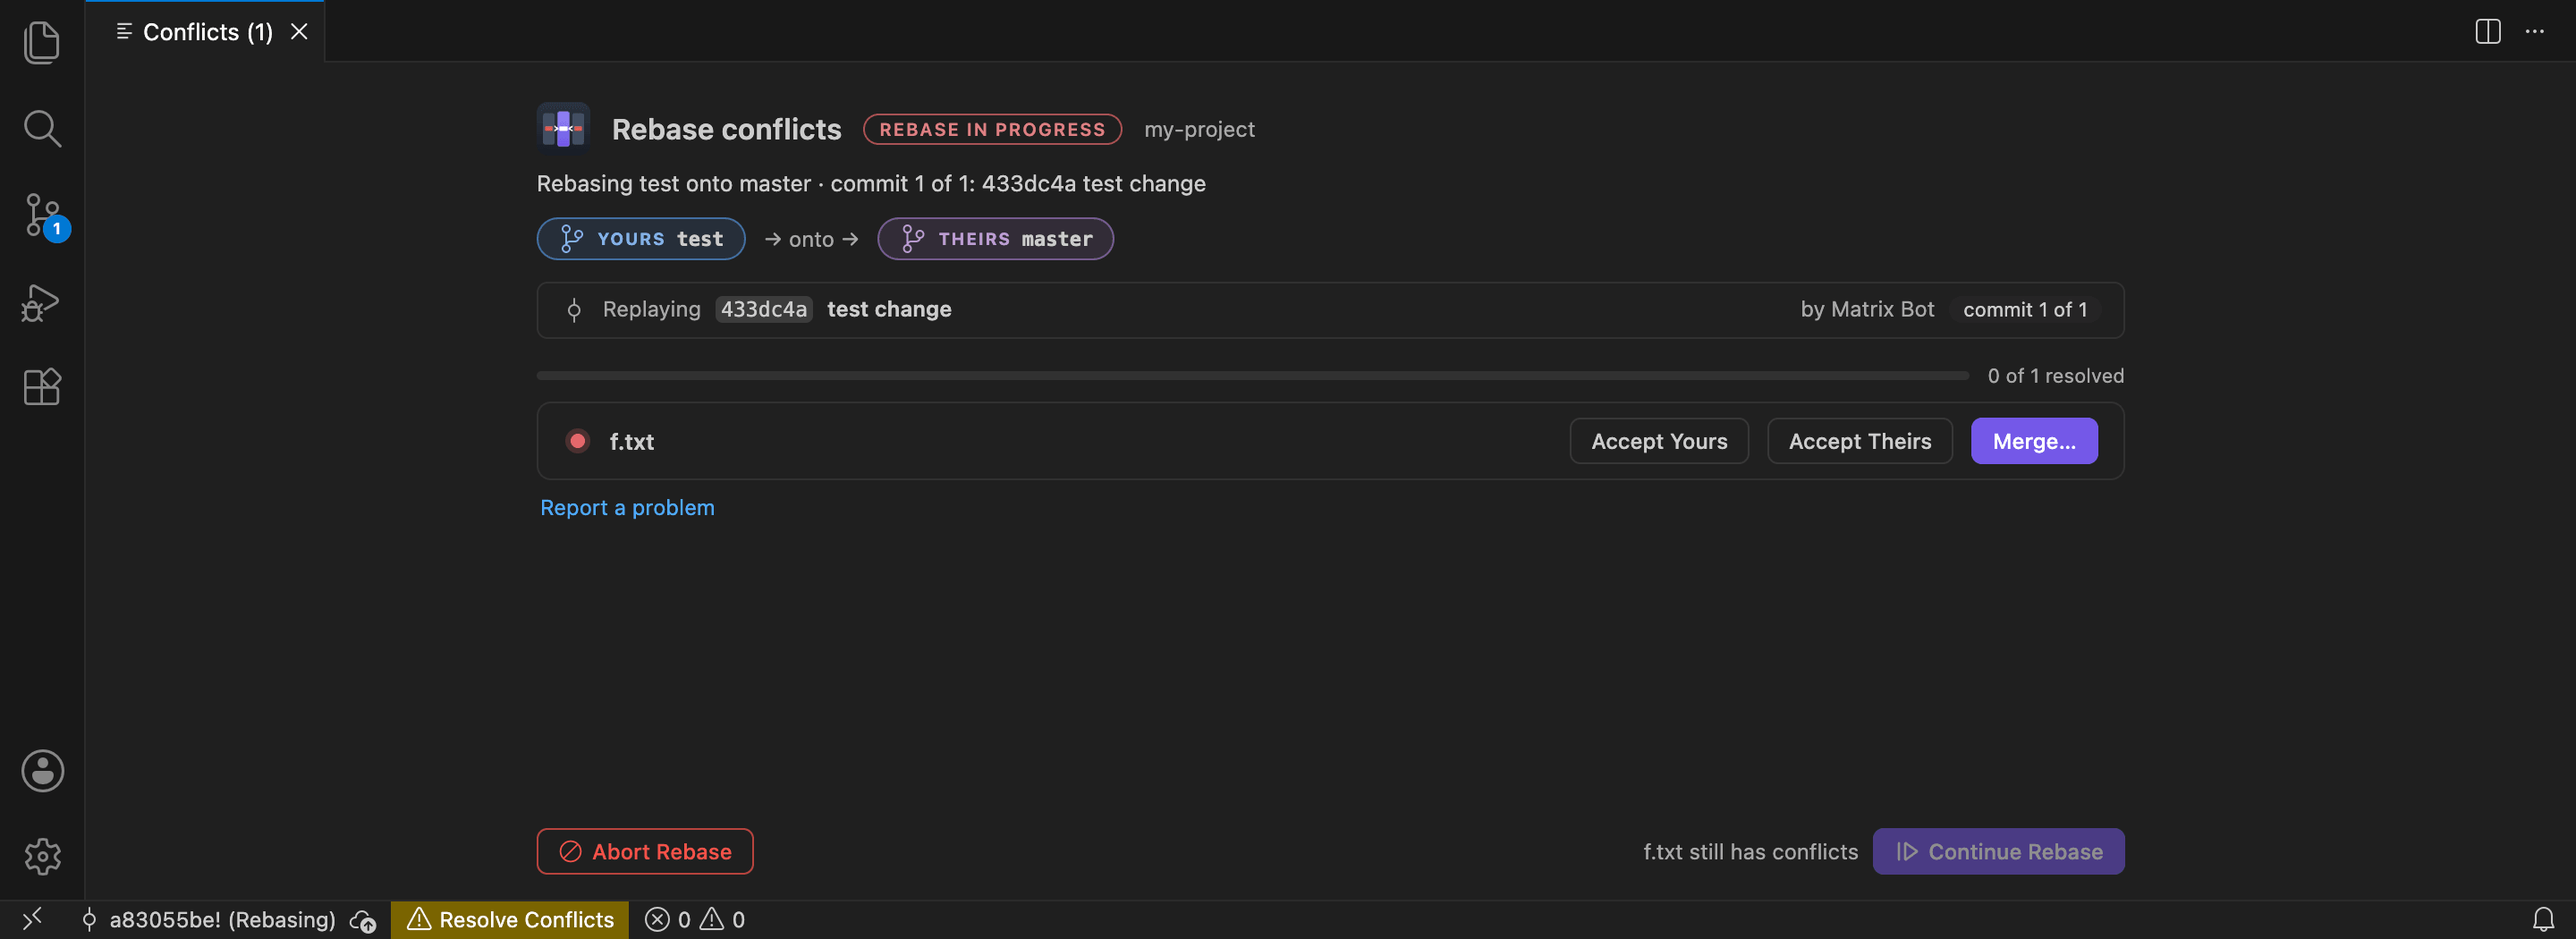
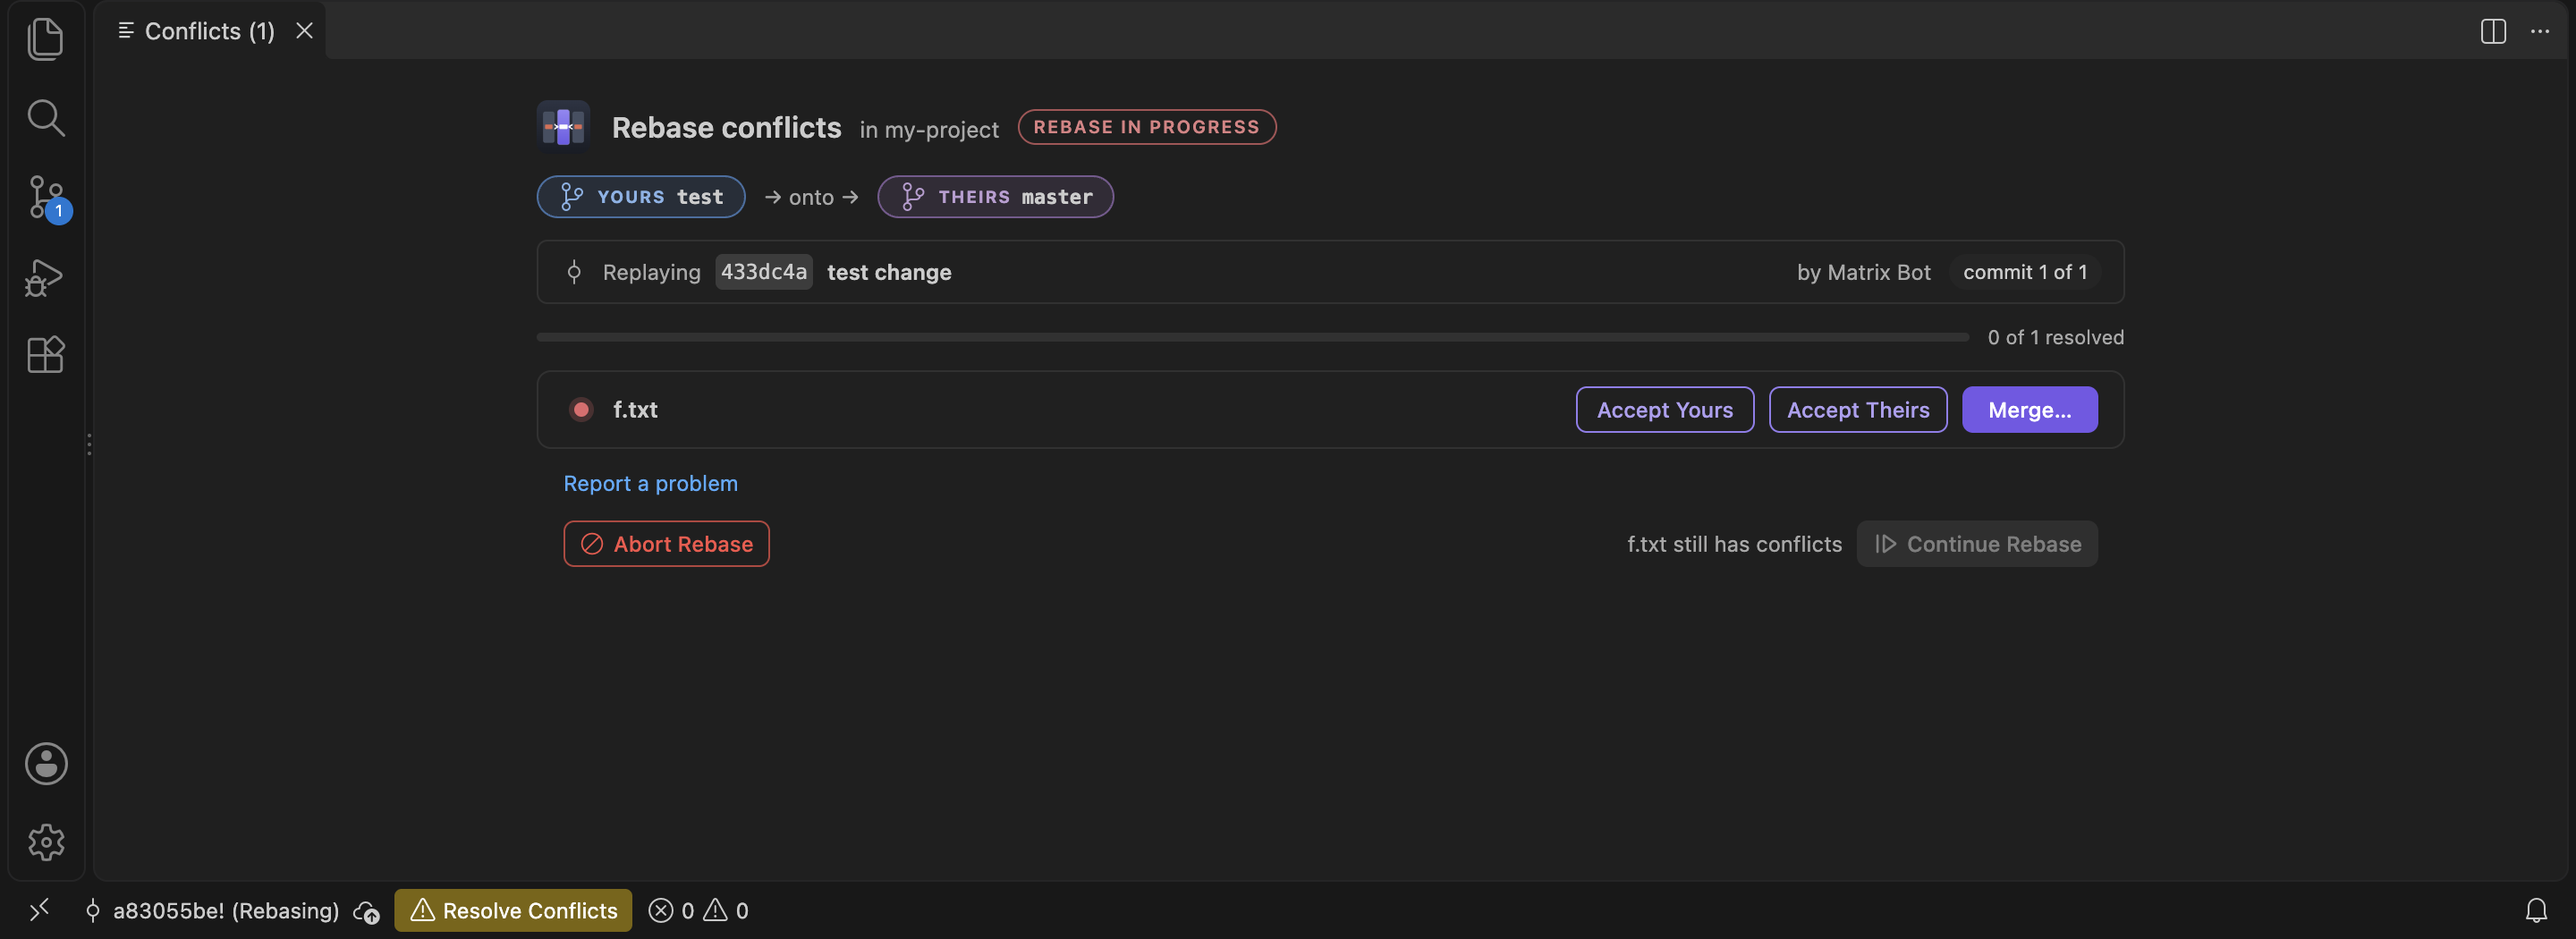
docs(merge-studio): re-take the 1.0.0 media in the final colours and dashboard
The merge editor's colours (9f0bbe0, 0349fe0: orange, leaf green, sky blue
and grey; pale lines, the full colour on line numbers, links and changed
words) and the dashboard's grid rows changed after a868821 and 9e48a93 took
these. Captured from the real 1.0.0 VSIX in an isolated VS Code 1.139
profile (its own user-data and extensions dirs, Merge Studio only),
launched hidden (open -g -j) and never focused, driven over CDP, 2x through
--force-device-scale-factor=2, Default Dark / Light Modern, oxipng -o 4
--strip safe. Every capture was checked by DOM: no "Accept Left", "Changes
from server", "Your version" or "Screenshot pending".

From the build of 9831c6e, with its two fixes (the narrow legend drops its
dash and dots with the words; the dashboard's page paints the editor's
ground and takes its colour scheme from the theme):
- walkthrough, dark and light: sample-merge (the sample, fresh), legend
  (the sample with one change taken: every colour still open, and a
  trace), rebase-sides (issue12 f.txt) and dashboard (issue12, 30 files).
  The narrow legend was checked by DOM too: no note, dash or dot shown.
- screenshots: dashboard-rebase and dashboard-done (issue12-exact,
  1440x560), and hero.gif: a real `git rebase main` typed in VS Code's
  terminal, stopped at commit 2 of 3, through Merge..., All, the wand, an
  arrow and a cross on each other conflict, Apply and Continue Rebase to
  "Rebase complete" (1200x721, 7.25 s, 1.3 MB). Every dashboard's margins
[…]

diff --git a/apps/merge-studio/SHOTS.md b/apps/merge-studio/SHOTS.md
@@ -17,6 +17,9 @@ server", "Your version" or "Screenshot pending" anywhere on screen.
 A hidden window paints no NEW frame, so open the window at the size the
 capture emulates (the media script's `winsize` before `launch`): with a
 viewport override of another size, `Page.captureScreenshot` waits forever.
+A window launched hidden (`open -g -j`) has no screen to take 2× from: pass
+`--force-device-scale-factor=2`, since an emulated scale factor leaves the
+webviews at 1×, blurred.
 
 Content comes from the merge matrix (`scripts/merge-e2e/fixtures.sh` in
 gitstudio): `issue12.merge` and `issue12-exact.merge` (the #12 reporter's
@@ -33,22 +36,24 @@ that tag. Window 1440×900.
 | `media/screenshots/hero.gif` | dark | 1200 px wide, under 8 s and 3 MB. A real rebase started in VS Code's terminal: the sample's three versions of `src/authorizeRequest.ts` as `feature/session-hardening` onto `main`, stopped at commit 2 of 3. The dashboard, Merge…, **All** (the changes only one side made), the wand (the simple conflict), then an arrow and a × on each of the other two conflicts, Apply, Continue Rebase, "Rebase complete". (The wand and one arrow alone leave conflicts open, and Apply then asks first.) |
 | `media/screenshots/merge-editor-dark.png` | dark | The sample merge (*Sample: authorizeRequest.ts*) with the legend in words, one entry per colour: Conflict — you choose (orange), Same on both sides — either arrow takes it (green, on both sides), One side only — safe to take (blue), Removed lines (grey). Each open change with its line numbers and its link to the result in the full colour, its lines lighter. One conflict half taken and one change settled, so the half-done look and a settled change's trace are in the shot. |
 | `media/screenshots/merge-editor-light.png` | light | The same, in Light Modern (the README's colour section uses this one). |
-| `media/screenshots/dashboard-rebase.png` | dark | `issue12-exact`: the dashboard mid-rebase, YOURS test → onto → THEIRS master, "commit 1 of 1", the commit card, f.txt with Accept Yours / Accept Theirs / Merge…, Continue Rebase disabled with its reason. A 1440×560 window: the dashboard fills its pane, footer pinned to the bottom, so a shorter window keeps Abort and Continue next to the list. |
+| `media/screenshots/dashboard-rebase.png` | dark | `issue12-exact`: the dashboard mid-rebase, YOURS test → onto → THEIRS master, "commit 1 of 1", the commit card, f.txt with Accept Yours / Accept Theirs / Merge…, Continue Rebase disabled with its reason. A 1440×560 window; the footer (Abort, the reason, Continue) sits right under the list. |
 | `media/screenshots/dashboard-done.png` | dark | `issue12-exact` after Accept Yours on f.txt: the step's success card ("Last commit resolved"), the row's pill ("kept yours · test") and Hold to undo, Continue Rebase enabled. 1440×560, as above. |
-| `media/screenshots/legend.png` | dark | A tight crop of the legend: the four colours named in words, each with its count. |
+| `media/screenshots/legend.png` | dark | A tight crop of the legend of `issue12.merge`'s `stress/userService.js`: each colour the file has, named in words with its count (Conflict — you choose 6, Same on both sides — either arrow takes it 1, One side only — safe to take 5). The file removes no lines, so Removed lines is not shown; the README's alt text gives these three counts. |
 | `media/screenshots/no-text-panel.png` | dark | `issue12.merge`, `app/greeting.py` (edited in theirs, deleted in yours): the panel with **Delete the file** and **Accept Theirs**. |
 | `media/screenshots/diff.png` | dark | The side-by-side diff of the sample diff. |
 
 ## Walkthrough (`media/walkthrough/`, shipped in the VSIX)
 
-900×560 editor areas from a 948×617 window, a dark and a light PNG per step
+900×560 editor areas, side bar closed, from a 956×627 window (VS Code
+1.139's status bar is 28 px and its editor sits 4 px in; in 1.138 a 948×617
+window gave the same area), a dark and a light PNG per step
 (`{"dark", "light", "hc", "hcLight"}` in package.json; the high-contrast
 themes use the dark and light files).
 
 | Step | Files | Capture |
 | --- | --- | --- |
 | Resolve a sample conflict | `sample-merge-{dark,light}.png` | The sample merge, fresh (nothing resolved), toolbar and bottom bar in frame. |
-| Read the colours | `legend-{dark,light}.png` | The legend, in words, plus one block of each colour: a conflict (orange), the same change on both sides (green), a change on one side only (blue), removed lines (grey). |
+| Read the colours | `legend-{dark,light}.png` | The legend, in words, plus one block of each colour: a conflict (orange), the same change on both sides (green), a change on one side only (blue), removed lines (grey). The sample merge with one change taken from Theirs, so its lighter trace shows while every colour is still open (no matrix file has all four colours). |
 | Rebase without swapping sides | `rebase-sides-{dark,light}.png` | The op strip and pane titles mid-rebase: YOURS test on the left, THEIRS master on the right. |
 | Finish the whole operation from the dashboard | `dashboard-{dark,light}.png` | The dashboard's rows and footer mid-rebase: Abort Rebase, and Continue Rebase waiting until no file has conflicts. (A rebase offers no Skip at a conflicted stop; cherry-pick, revert and git am do.) |
 | Choose your merge editor | `choose-editor-{dark,light}.png` | The first-conflict notification with Turn them off / Not now / Don't ask again. |
